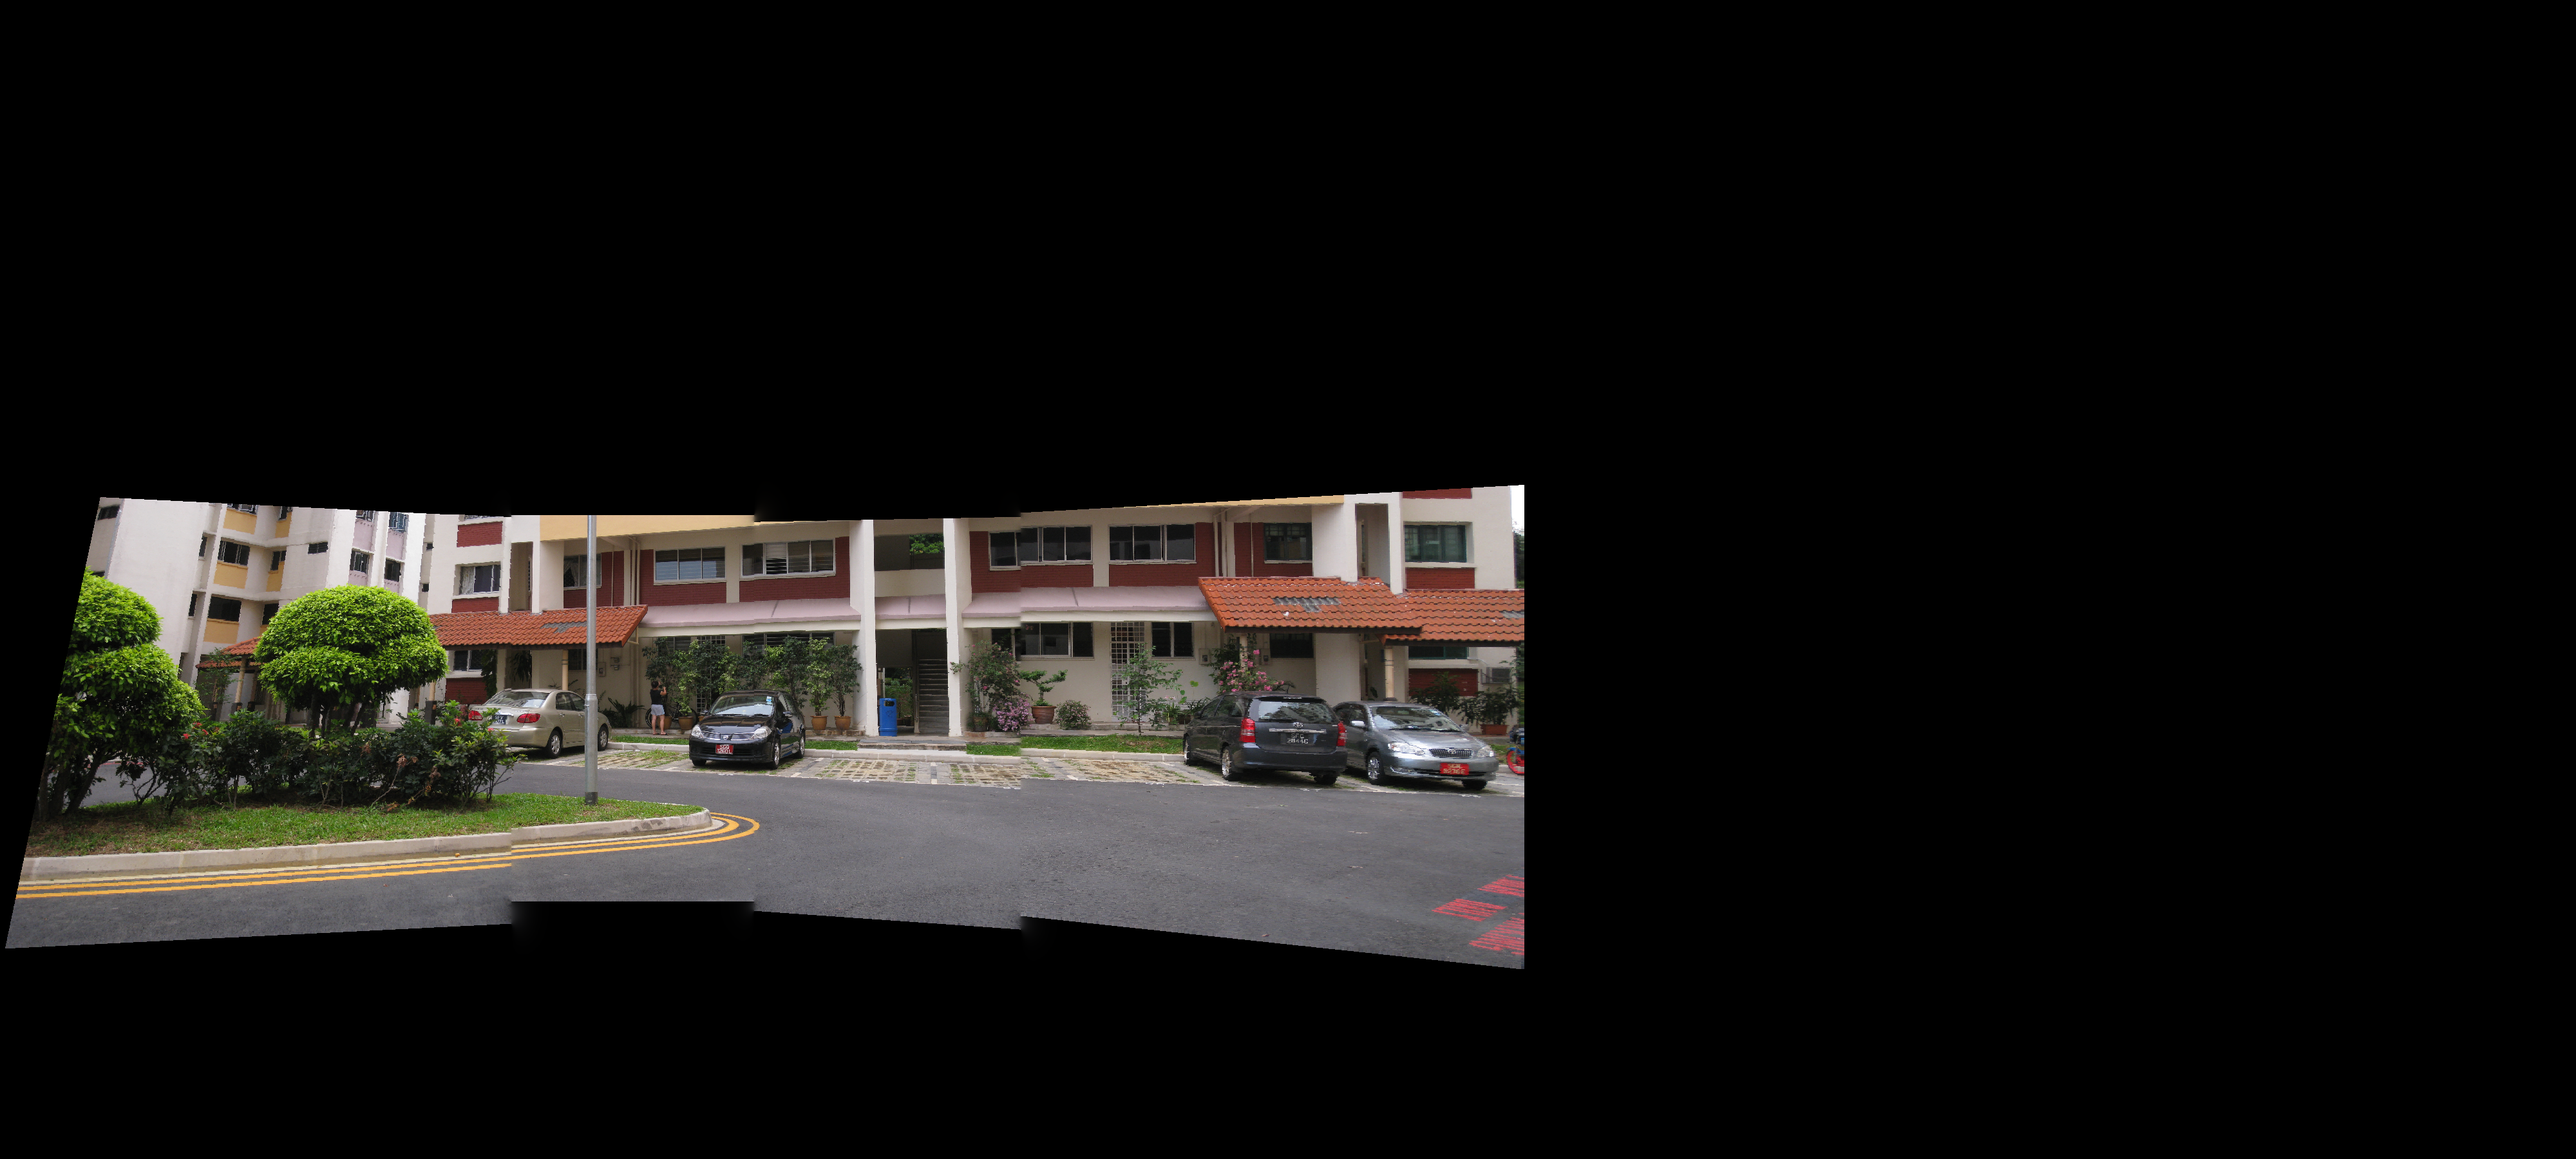
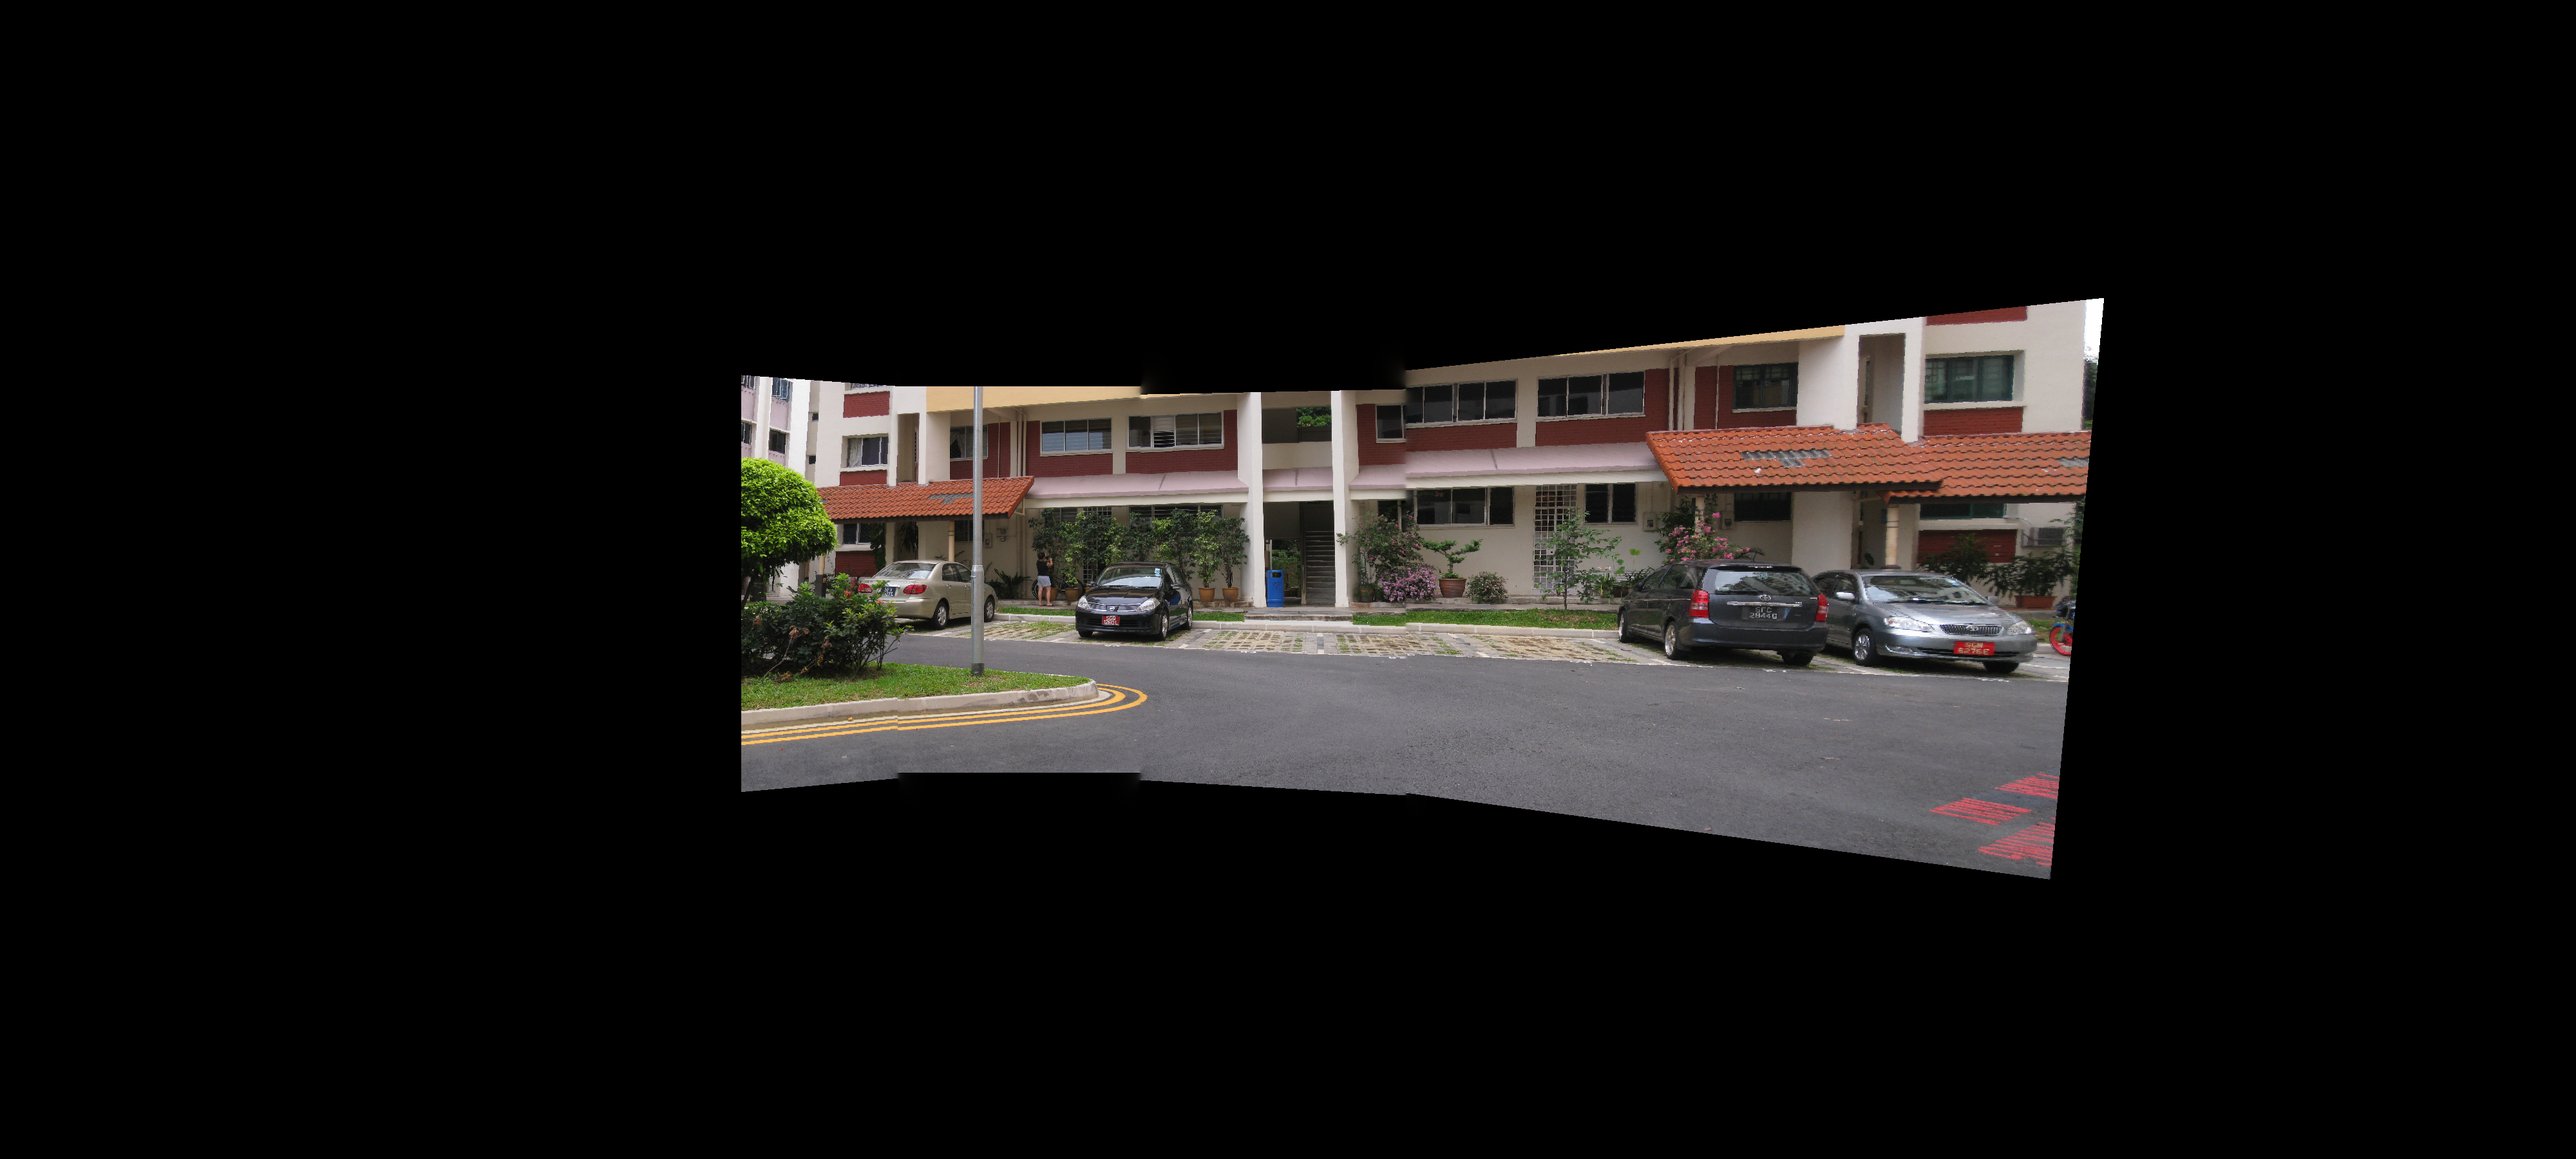
Modified Inverse H Interpolation

diff --git a/Panorama_Stitching/helpers.py b/Panorama_Stitching/helpers.py
@@ -108,7 +108,7 @@ def setReference(image, x_offset, y_offset, x, y):
     warped = np.zeros((x, y, 3))
     for i in range(image.shape[0]):
         for j in range(image.shape[1]):
-            warped[i+x_offset][j+y_offset] = image[i][j]
+            warped[i+y_offset][j+x_offset] = image[i][j]
     print("Reference Image Set!")
     return warped
 
@@ -118,42 +118,37 @@ def setReference(image, x_offset, y_offset, x, y):
 def mywarp(output, target, x_offset, y_offset, H):
     out = output.copy()
     output_copy = np.zeros_like(output)
-    for i in tqdm(range(target.shape[0])):
-        for j in range(target.shape[1]):
-            computed = H.dot(np.asarray([j, i, 1]).T)
-            computed = computed/computed[2]
-            x_c = int(computed[0])        
-            y_c = int(computed[1])
-            try:
-                for i1 in range(-1, 2):
-                    for i2 in range(-1, 2):
-                        output_copy[y_c+x_offset+i1][x_c + y_offset+i2] = target[i, j]
-                        output[y_c+x_offset+i1][x_c + y_offset+i2] = target[i, j]
-            except:
-                continue
+    h = target.shape[0]
+    w = target.shape[1]
+    corners = [[0,0,1],[h-1,0,1],[0,w-1,1],[h-1,w-1,1]]
+    transform_corners = np.array([H.dot(np.array(corner).T) for corner in corners])
+    transform_corners = [corner/corner[2] for corner in transform_corners]
+    xs = [corner[1] for corner in transform_corners]
+    ys = [corner[0] for corner in transform_corners]
+    xmin, xmax = int(np.min(xs)), int(np.max(xs))+1
+    xmin = max(xmin, -x_offset)
+    xmax = min(xmax + x_offset, output_copy.shape[1])
+    ymin, ymax = int(np.min(ys)), int(np.max(ys))+1
+    ymin = min(ymin, -y_offset)
+    ymax = min(ymax + y_offset, output_copy.shape[0])
+
+    invH = np.linalg.inv(H)
+    for j in tqdm(range(ymin,ymax)):
+        for i in range(xmin,xmax):
+            point = np.array([i,j,1]).T
+            inverse = invH.dot(point)
+            inverse = inverse/inverse[2]
+            x = int(inverse[0])
+            y = int(inverse[1])
+
+            if x in range(0,w) and y in range(0,h):
+                try:
+                    output_copy[j + y_offset][i + x_offset] = target[y][x]
+                    output[j + y_offset][i + x_offset] = target[y][x]
+                except:
+                    continue
     mask = out*output_copy
     return mask, out, output_copy
-
-# This is an exact copy of the previous function. However, this function interpolates more than the previous one
-# This function can be used for images are farther away from the reference image
-def mywarp_far(output, target, x_offset, y_offset, H):
-    out = output.copy()
-    output_copy = np.zeros_like(output)
-    for i in tqdm(range(target.shape[0])):
-        for j in range(target.shape[1]):
-            computed = H.dot(np.asarray([j, i, 1]).T)
-            computed = computed/computed[2]
-            x_c = int(computed[0])     
-            y_c = int(computed[1])
-            try:
-                for i1 in range(-2, 3):
-                    for i2 in range(-2, 3):
-                        output_copy[y_c+x_offset+i1][x_c + y_offset+i2] = target[i, j]
-                        output[y_c+x_offset+i1][x_c + y_offset+i2] = target[i, j]
-            except:
-                continue
-    mask = out*output_copy
-    return mask,out, output_copy
 
 # This function is used to blend the newly warped image and the existing stiched image
 # It makes use of the Image pyraminds to estimate Gaussian and Laplacian pyramids of the two images

diff --git a/Panorama_Stitching/main.py b/Panorama_Stitching/main.py
@@ -73,7 +73,7 @@ image4 = cv2.resize(image4, (800,600))
 
 height = int(3*image2.shape[0])
 width = 5*image2.shape[1]
-x_offset = int(image2.shape[1])
+x_offset = int(1.5*image2.shape[1])
 y_offset = int(image2.shape[0])
 output = setReference(image2, x_offset, y_offset, height, width)
 
@@ -100,7 +100,7 @@ output = blend(original, warped, mask, stichOnLeft=0)
 # For SET 1 to 5
 H43 = stich(image4, image3)
 H42 = np.dot(H43, H32)
-mask, original, warped =  mywarp_far(output, image4, x_offset, y_offset, H42)
+mask, original, warped =  mywarp(output, image4, x_offset, y_offset, H42)
 output = blend(original, warped, mask, stichOnLeft=0)
 
 # FOR SET - 6

diff --git a/Panorama_Stitching/README.md b/Panorama_Stitching/README.md
@@ -4,11 +4,11 @@ By: Udit Vyas (18110176)
 
 Steps to run the code:
 
-1. The pythoh files are main.py, helper.py and inbuilt_functions.py
+1. The python files are main.py, helper.py and inbuilt_functions.py
 2. In order to run the code, first create a new virtualenv, and install the dependencies (optional, may avoid if they are preinstalled). 
 3. Next, Check the main.py, and do the following
     - Uncomment the set which you want to generate the result for from all the inputs taken
-    - Specially read the comments added for SET 3 and SET 6, as they are exceptional cases. Comment the code correctly to avoid any errors.
+    - Specially read the comments added for SET 3 and SET 6, as they are exceptional cases. Comment the code correctly to avoid any errors. The explanation for this is provided in the report.
     - Do not change the input lines, as it may drastically change the results.
     - The code runs over some assumptions, that have been mentioned in the report
 4. Run the python code main.py
